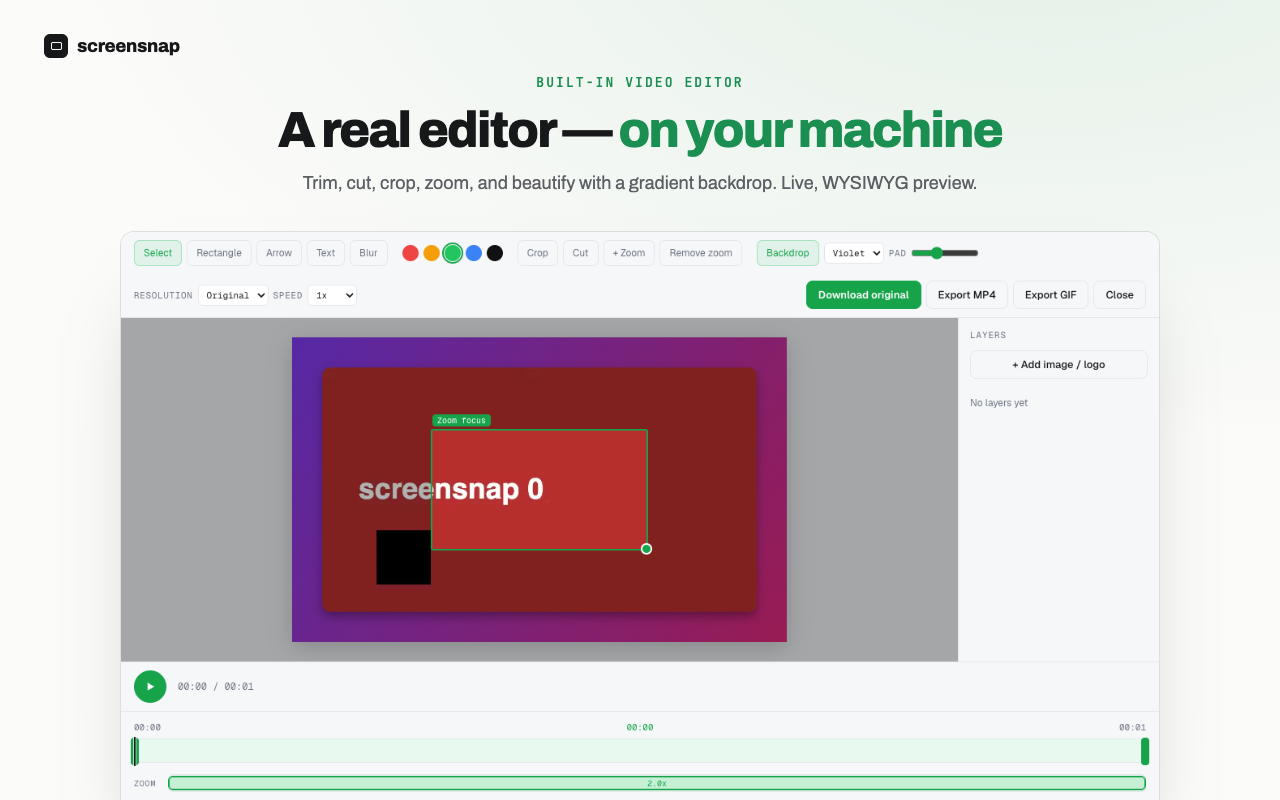
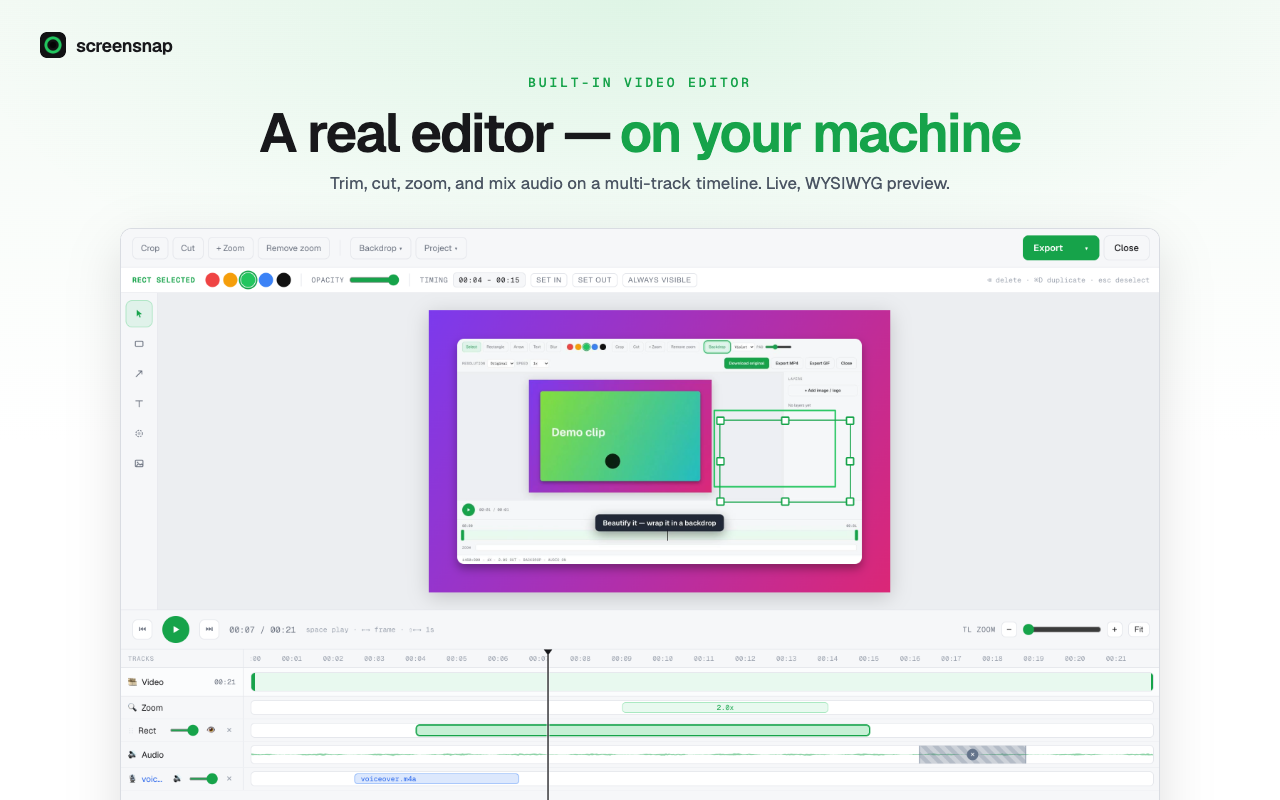
Release prep 1.3.0: version, store copy, docs, new editor screenshot
Bump manifest + package to 1.3.0. Store description now leads with the timeline editor and
audio ("Timeline editor: trim, zoom, audio, annotate"). README's video-editor section rewritten
for the multi-track timeline, audio editing/import, resizable + time-scoped layers, tool rail,
snapping, and size-scaling exports; CLAUDE.md architecture note updated to match (and no longer
claims MP4 is the only output — the GIF exporter exists). Store screenshot 02-video-editor.png
re-shot in the reworked UI (inspector row, tool rail, multi-track timeline with waveform, mute
region, and a voiceover track). tmp/ ignored (local design-handoff bundles).

diff --git a/CLAUDE.md b/CLAUDE.md
@@ -16,8 +16,9 @@ These are hard rules for anyone — human or AI — working in this project.
   the pure-JS, no-WASM media library that powers the video editor's pipeline. See `src/vendor/ATTRIBUTION.md` for the
   pinned version + SHA-256.
 - **No ffmpeg / no WASM.** Recordings are saved as native MP4 via `MediaRecorder` (`video/mp4`) with no transcoding.
-  The video editor re-encodes via the browser-native **WebCodecs** API (still no ffmpeg, no WASM) and only ever
-  outputs MP4. If a browser lacks native MP4 capture it saves `.webm` rather than lose the recording.
+  The video editor re-encodes via the browser-native **WebCodecs** API (still no ffmpeg, no WASM); its video
+  output is always MP4, plus a from-scratch pure-JS animated-GIF export (`src/editor/gif-*.js`). If a browser
+  lacks native MP4 capture it saves `.webm` rather than lose the recording.
 
 ## Product principles (do not regress)
 - Completely free and unrestricted: no paywalls, no watermarks, no forced sign-ups, no upsell prompts.
@@ -59,5 +60,8 @@ re-injected by a `tabs.onUpdated` listener when the tab navigates; surviving a j
 starts (declining → same-site-only; shortcuts/toolbar still stop everywhere). Mic & camera
 permission is granted via a small dedicated window (`src/permission/`), since neither the popup nor the offscreen
 document can prompt. When a recording finishes it is stashed in IndexedDB and the **video editor** (`src/editor/`) opens in a
-tab — a WebCodecs-based trim / resolution / speed / overlay-layer editor that exports MP4 (or Downloads the clip
-as-is). All surfaces reflect state live via `STATE_CHANGED`.
+tab — a WebCodecs-based **multi-track timeline** editor (constant-height frozen-pane track grid: pinned ruler + video
+track, then a track per overlay layer, audio with mute regions, and an optional imported voiceover/music track mixed
+in via `OfflineAudioContext` at export) with trim / cuts / crop / zoom blocks / speed / resolution, resizable +
+time-scoped overlay layers, a left tool rail with draw-once tools, snapping, and MP4 / GIF export (or Download the
+clip as-is). All surfaces reflect state live via `STATE_CHANGED` (the editor itself runs standalone off IndexedDB).

diff --git a/README.md b/README.md
@@ -38,12 +38,21 @@ Built because being nagged to log in just to save a screenshot is miserable.
 - **System / tab audio** and/or **microphone** (mixed), **pause / resume**, and a red **REC** badge
 
 **Video editor** (opens after a recording; WebCodecs, no ffmpeg/WASM)
+- A **multi-track timeline** — pinned ruler + video track, then a track per overlay, plus audio —
+  with drag-to-move / drag-edge-to-resize clips, **snapping** (playhead, clip edges, whole seconds),
+  timeline zoom, and a constant-height panel (adding tracks never reflows the stage)
 - **Trim** the ends and **cut** mistakes out of the middle (multi-segment), **resolution** and **speed**
 - **Crop** free-form or to a ratio (16:9 / 1:1 / 9:16 / 4:3); **Zoom** with draggable, resizable focus
   blocks that ease in/out; **Beautify backdrop** (gradient/solid + rounded corners + shadow)
 - **Layers** — annotations (text, arrows, shapes, blur), **image/logo** overlays, and **animated GIF**
-  overlays, composited live (WYSIWYG preview = export)
-- **Export** a native **MP4** or an animated **GIF** — or download the original clip untouched
+  overlays — all **resizable** on the stage (8-handle selection box) and **time-scoped** on the
+  timeline (e.g. an arrow that appears for 3 seconds), composited live (WYSIWYG preview = export)
+- **Audio editing** — waveform view, drag to **mute regions** (without cutting the video), volume /
+  mute, and **import a voiceover or music track** (movable, trimmable, mixed into the export)
+- A left **tool rail** with keyboard shortcuts (V R A T B I), draw-once tools that return to Select,
+  ⌘D duplicate, frame-step keys, and prev/next-edit transport buttons
+- **Export** a native **MP4** (bitrate scales with resolution, so 720p/1080p genuinely shrink files)
+  or an animated **GIF** — or download the original clip untouched
 
 ## MP4, natively — no transcoding
 
